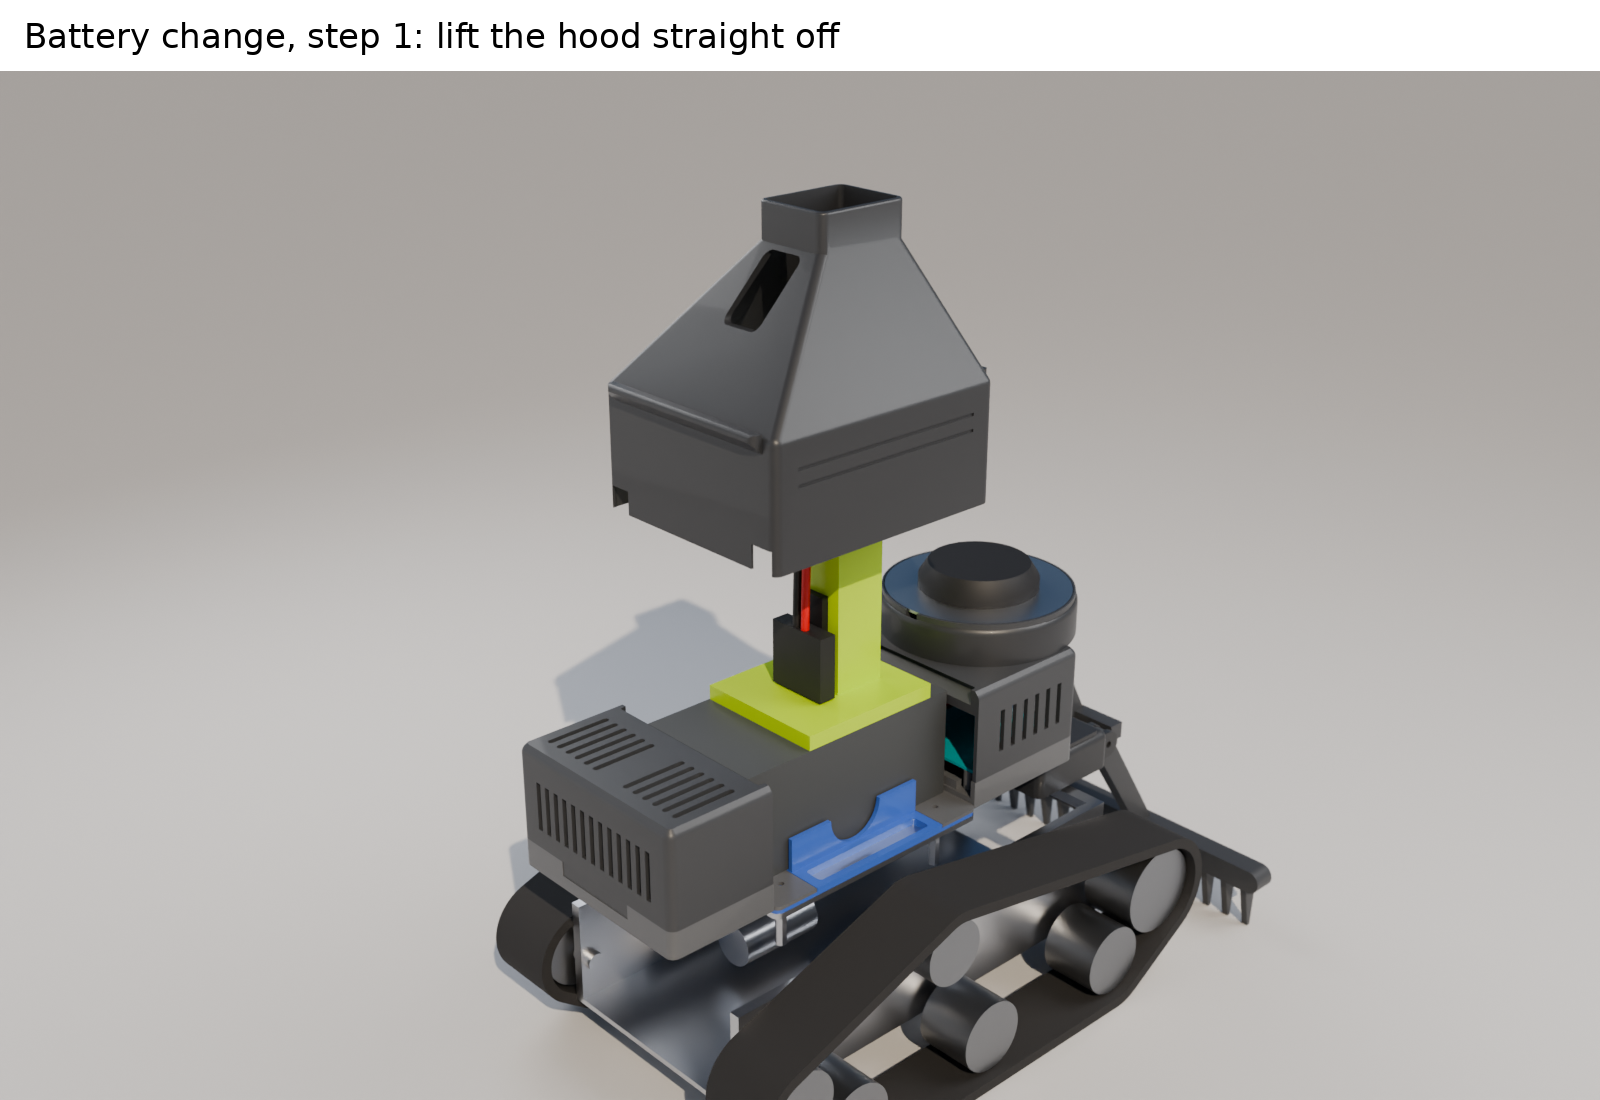
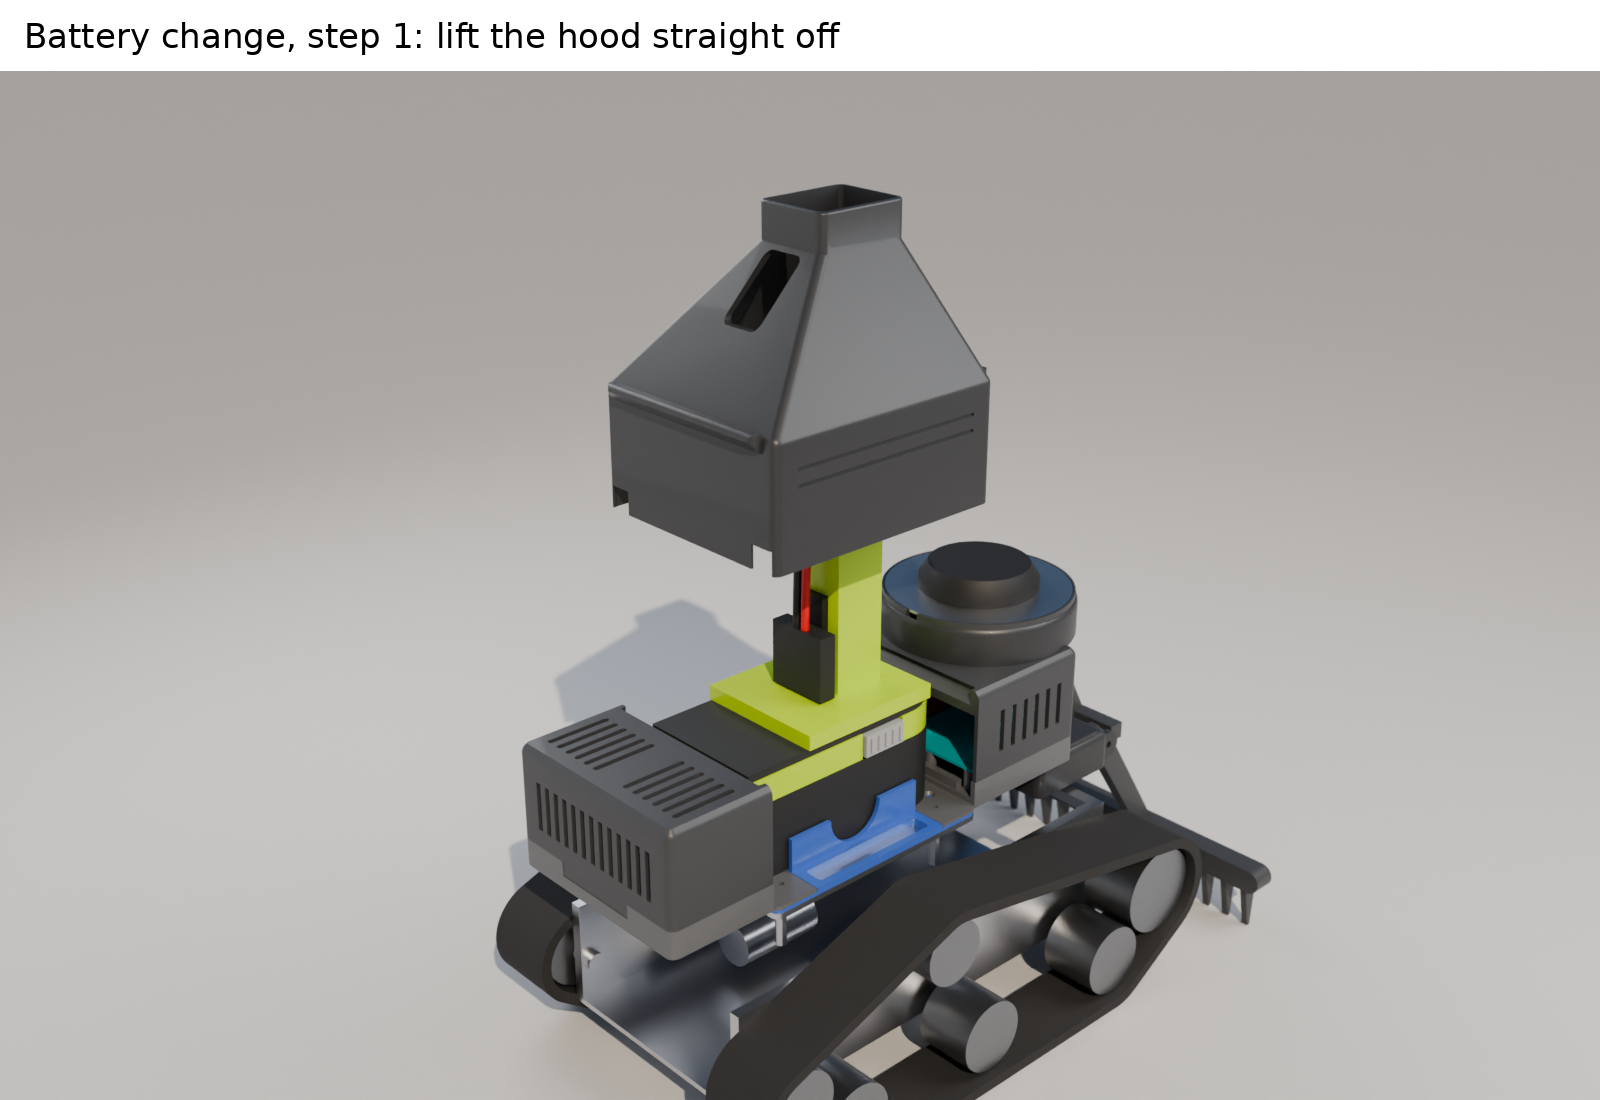
Ryobi battery stand-in with release buttons in the battery change renders
Claude-Session: https://claude.ai/code/session_011AZmCYsDWcDznu3RCMf8yA

Changed region(s): [[0.4062, 0.6182, 0.5938, 0.8036]]

diff --git a/CAD/DeckMount/render/render.py b/CAD/DeckMount/render/render.py
@@ -26,6 +26,10 @@ M = {
  "hood":   mat("case", (0.035, 0.037, 0.042), 0.42, coat=0.15),
  "covers": mat("case2", (0.05, 0.053, 0.06), 0.45, coat=0.15),
  "battery": mat("ryobi_grey", (0.06, 0.065, 0.07), 0.5),
+ "bat_body": mat("ryobi_black", (0.025, 0.026, 0.028), 0.55),
+ "bat_band": mat("ryobi_band", (0.42, 0.62, 0.02), 0.4, coat=0.2),
+ "bat_btn": mat("ryobi_btn", (0.33, 0.34, 0.36), 0.45),
+ "bat_gauge": mat("ryobi_led", (0.1, 0.9, 0.1), 0.3),
  "adapter": mat("ryobi_green", (0.42, 0.62, 0.02), 0.4, coat=0.2),
  "ibt_pcb": mat("pcb_red", (0.5, 0.03, 0.02), 0.4),
  "ibt_sink": mat("sink", (0.75, 0.76, 0.78), 0.3, 1.0),
@@ -83,6 +87,7 @@ views = {"front34": ((-0.50, -0.50, 0.26), (0.10, 0.06, -0.02)),
          "rear34": ((0.66, 0.54, 0.28), (0.12, 0.06, -0.01)),
          "side":   ((0.12, -0.80, 0.10), (0.12, 0.06, -0.02)),
          "swap":   ((-0.5, -0.56, 0.5), (0.07, 0.06, 0.15)),
+         "latch":  ((0.02, -0.36, 0.20), (0.085, 0.06, 0.045)),
          "pod":    ((0.62, -0.30, 0.42), (0.20, 0.06, 0.07)),
          "hitch":  ((0.90, -0.64, 0.20), (0.22, 0.06, -0.035)),
          "trailer": ((0.95, -0.80, 0.42), (0.32, 0.06, -0.08))}

diff --git a/CAD/DeckMount/ASSEMBLY.md b/CAD/DeckMount/ASSEMBLY.md
@@ -131,7 +131,10 @@ To swap tools, pull the 3 pins.
 
 1. Turn the switch off through the finger window.
 2. Lift the **hood** straight up. It slides off over the adapter and the leads.
-3. Press the adapter's release latches and lift the **adapter** straight up. Set it beside the tank; its leads stay connected.
-4. Press the battery's latches and lift the **battery** straight out. The finger scoops in the cradle walls help.
+3. Squeeze the battery's two release buttons, one on each side just under the adapter, and lift the **adapter** straight up. With the hood off, nothing stands beside the battery above the 22 mm cradle walls, so your thumb and finger have about 20 mm of room on each side. Set the adapter beside the tank; its leads stay connected.
+
+   ![](images/16_battery_release_buttons.png)
+
+4. Lift the **battery** straight out. Nothing latches it into the cradle; the finger scoops in the cradle walls give you a grip.
 
 To refit, drop the battery back in (flat end forward), then the adapter (switch forward), then lower the hood.
